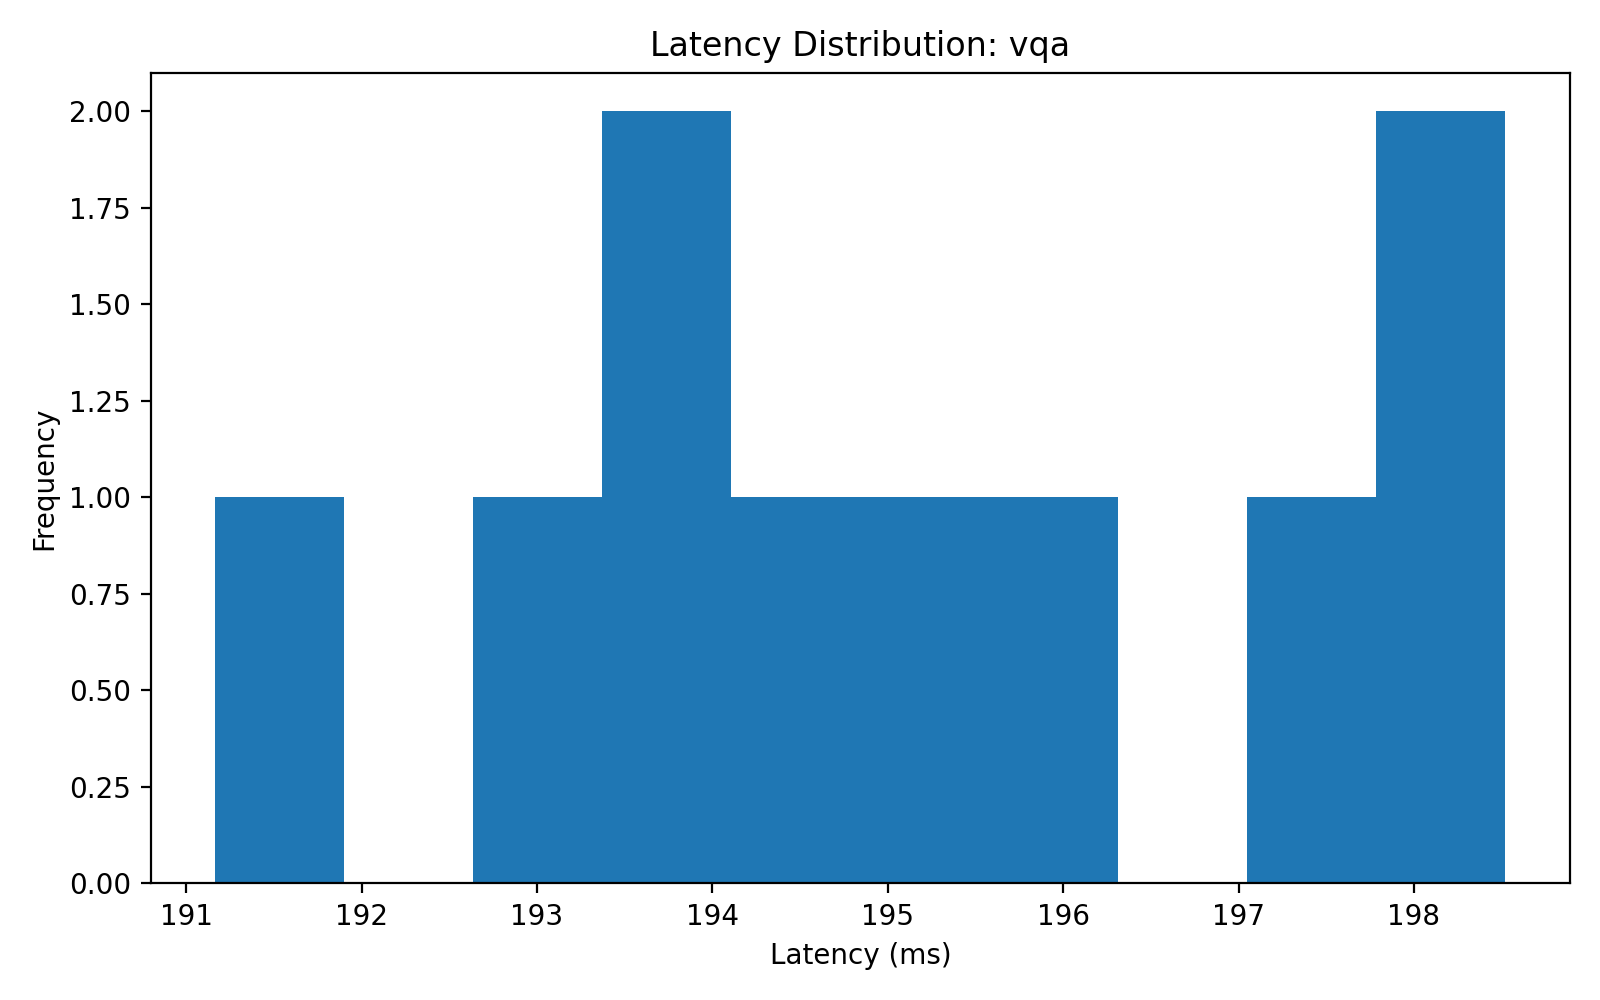
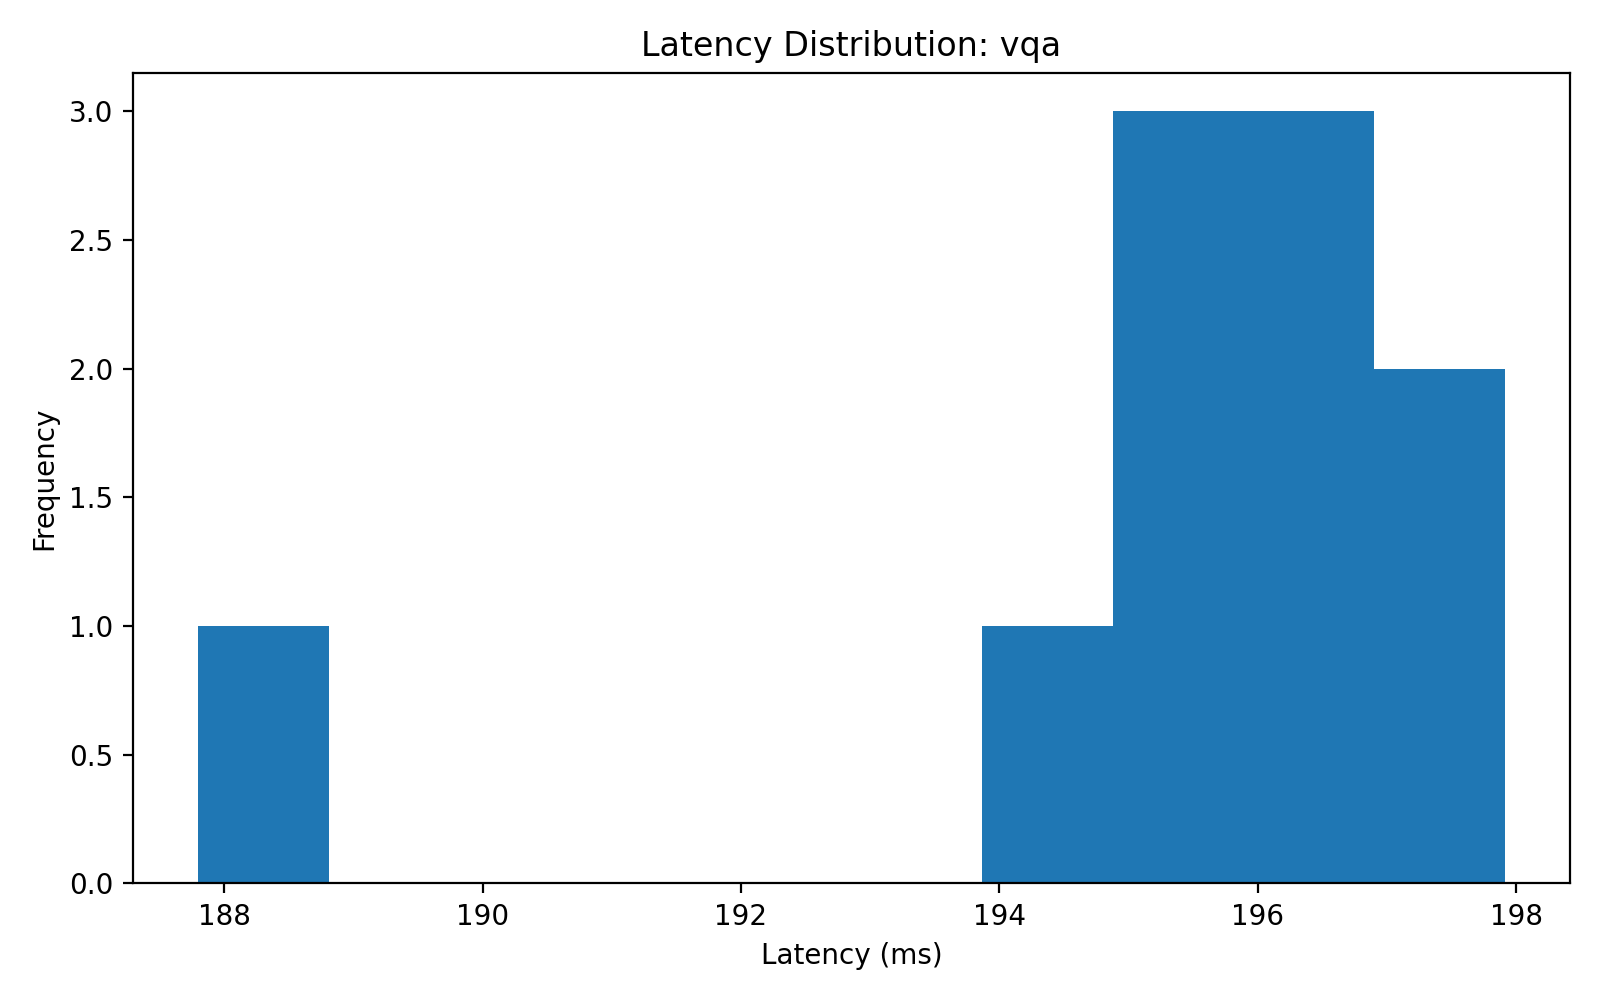
Throughput and quality evaluations.

diff --git a/README.md b/README.md
@@ -6,11 +6,6 @@ A multimodal vision language model (VLM) built with **FastAPI**, **PyTorch**, an
 - **Visual question answering (VQA)**
 - **Combined image analysis via API**
 
-## Models 
-
-- Salesforce/blip-image-captioning-base
-- Salesforce/blip-vqa-base
-
 ## Features
 
 - `POST /caption` — generate a caption for an uploaded image
@@ -152,8 +147,12 @@ data/latency_plots \
 
 ## Evaluation Results 
 
-The below plot visualizes latency results from a sample evaluation run.
+The below plots visualize the latency results from a sample evaluation run.
 
+![Analysis Latency](./data/latency_plots/latency_hist_analyze.png)
+![Caption Latency](./data/latency_plots/latency_hist_caption.png)
+![VQA Latency](./data/latency_plots/latency_hist_vqa.png)
+![Average Endpoint Latency](./data/latency_plots/latency_mean_by_endpoint.png)
 ![Average Task Latency](./data/latency_plots/latency_mean_by_task.png)
 
 These results reveal that VQA is the quickest task on average at about 195ms, captioning is much slower at about 970ms, and analysis is the slowest at about 1.1s. Since analysis combines both VQA and captioning, its latency is normal. VQA only requires a targted answer, explaining its low latency. Captioning requires analysis of the entire image, making its latency normal. 
